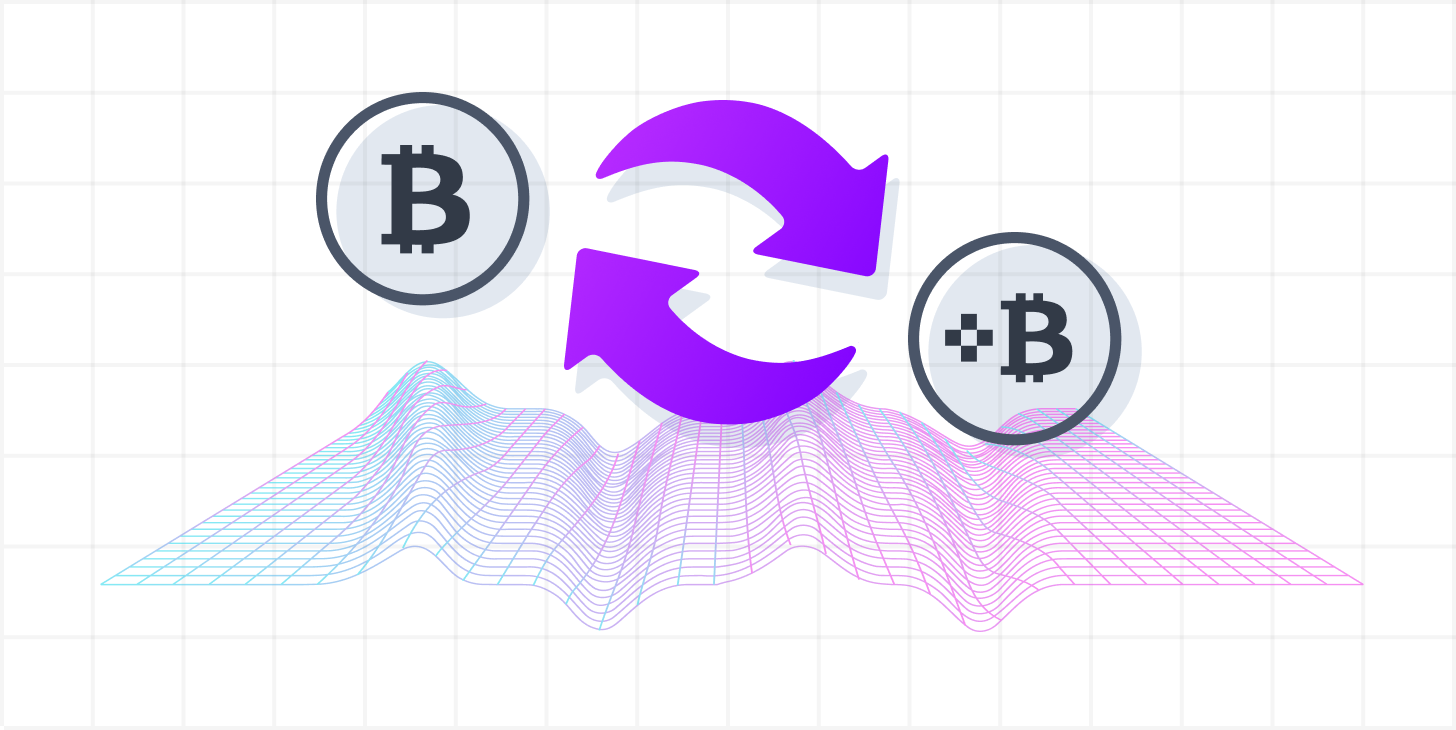
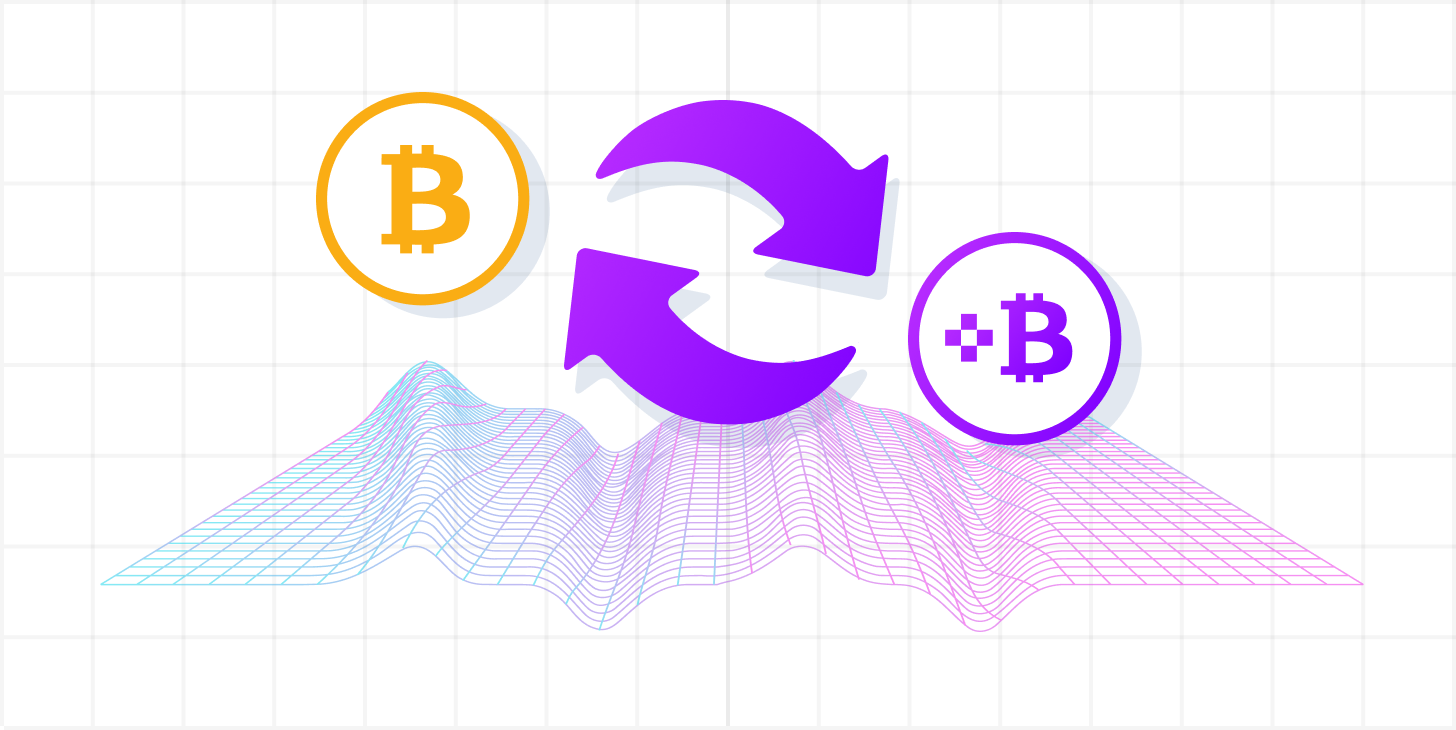
Updates illustrations and adds application header to HIW page

Changed region(s): [[0.6181, 0.3014, 0.7727, 0.6329], [0.2163, 0.1205, 0.3709, 0.4219]]

diff --git a/src/pages/Staking/HowItWorks/StakingApplications/index.tsx b/src/pages/Staking/HowItWorks/StakingApplications/index.tsx
@@ -1,13 +1,14 @@
 import { FC } from "react"
 import {
-  Alert,
-  AlertIcon,
-  Button,
-  Stack,
-  Divider,
-  Card,
   BodyMd,
+  BodyXs,
+  Button,
+  Card,
+  Divider,
   H5,
+  HStack,
+  Image,
+  Stack,
   VStack,
 } from "@threshold-network/components"
 import tbtcAppIllustration from "../../../../static/images/tbtcAppIllustration.png"
@@ -15,26 +16,70 @@ import randomBeaconAppIllustration from "../../../../static/images/randomBeaconA
 import preAppIllustration from "../../../../static/images/preAppIllustration.png"
 import ApplicationDetailsCard from "./ApplicationDetailsCard"
 
+import listIconStar from "../../../../static/images/ListIconStar.png"
+import listIconStock from "../../../../static/images/ListIconStock.png"
+import listIconArrows from "../../../../static/images/ListIconArrows.png"
+import stakingApplicationsIllustration from "../../../../static/images/StakingApplicationsIllustration.png"
+
+const CustomList: FC<{
+  items: { imgSrc: any; content: string | JSX.Element }[]
+}> = ({ items }) => {
+  return (
+    <Stack spacing={4}>
+      {items.map(({ imgSrc, content }) => (
+        <HStack spacing={4}>
+          <Image h="32px" w="32px" src={imgSrc} />
+          {typeof content === "string" ? <BodyMd>{content}</BodyMd> : content}
+        </HStack>
+      ))}
+    </Stack>
+  )
+}
+
 const StakingApplications: FC = () => {
   return (
     <Card>
-      <H5 my={8}>Staking Providers</H5>
+      <H5 my={8}>Staking Applications</H5>
       <Divider mb={6} />
-      <BodyMd mb={6}>
-        Authorization allows you to authorize a portion or all of your stake to
-        any number of Threshold applications. You can change this amount by
-        deauthorizing at any time. There is a deauthorization cooldown period of
-        14 days.
-      </BodyMd>
-      {/* TODO: Investigate why magic prop isn't working */}
-      {/*status="magic"*/}
-      <Alert mb={6}>
-        <AlertIcon />
-        In order to earn rewards, please authorize Threshold apps to use your
-        stake. Note that you can authorize 100% of your stake for all of the
-        apps.
-      </Alert>
+      <Stack
+        justifyContent="space-between"
+        spacing={{ base: "8", xl: "16" }}
+        direction={{ base: "column", xl: "row" }}
+        mb={8}
+      >
+        <Stack maxW="408px">
+          <BodyMd mb={6}>
+            Authorization allows you to authorize a portion or all of your stake
+            to be used by Threshold apps.
+          </BodyMd>
 
+          <CustomList
+            items={[
+              {
+                content: "Earn rewards by authorizing apps.",
+                imgSrc: listIconStar,
+              },
+              {
+                content:
+                  "Authorize 100% of your stake for all apps for the most rewards opportunity.",
+                imgSrc: listIconStock,
+              },
+              {
+                content: (
+                  <Stack>
+                    <BodyMd>Change your authorized amount at any time. </BodyMd>
+                    <BodyXs>
+                      There is a deauthorization cooldown period of 14 days.
+                    </BodyXs>
+                  </Stack>
+                ),
+                imgSrc: listIconArrows,
+              },
+            ]}
+          />
+        </Stack>
+        <Image maxW="528px" src={stakingApplicationsIllustration} />
+      </Stack>
       <Stack spacing={6}>
         <ApplicationDetailsCard
           preTitle="TBTC APP"

diff --git a/src/pages/Staking/HowItWorks/StakingProviders/index.tsx b/src/pages/Staking/HowItWorks/StakingProviders/index.tsx
@@ -121,14 +121,14 @@ const StakingProviders: FC = () => {
         gridGap="4"
       >
         <Card gridArea="providers" h="fit-content">
-          <BoxLabel>All Applications</BoxLabel>
+          <BoxLabel status="secondary">All Applications</BoxLabel>
           <List mt="6" spacing="4">
             {providers.map(renderProviderListItem)}
           </List>
         </Card>
 
         <Card gridArea="pre-providers" h="fit-content">
-          <BoxLabel>Pre only</BoxLabel>
+          <BoxLabel status="secondary">Pre only</BoxLabel>
           <List mt="6" spacing="4">
             {preOnlyProviders.map(renderProviderListItem)}
           </List>
